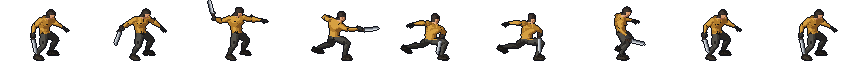
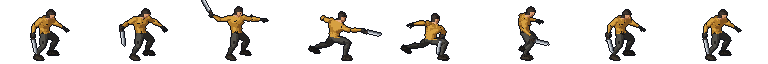
3타 내려치기 손맛: 버텼다가 확, 파고들기, 땅까지 검로, 큰 타격 별
- 3타 칸 다시 자름: 서기·빼기·머리 위(버팀) + 파고들기·내려침, 맞는 칸 = 땅까지 내려친 칸
- look.json windup: 준비 칸마다 시간 비율 (머리 위 0.18초 → 0.03초 만에 내려침)
- look.json trail_from: 검로를 여러 칸 전부터 (머리 위 → 앞 → 땅)
- Swing step: 맞기 직전 앞으로 파고듦 (3타 22px), 반격 돌진도 맞는 순간에 도착
- hit_feel burst: 무게에 따라 타격 별 크기·굵기·충격 고리, 강타 히트스톱 0.13초

diff --git a/src/weapon.py b/src/weapon.py
@@ -13,12 +13,14 @@ import pico2d
 
 import dodge
 
-Swing = namedtuple("Swing", "sheet duration contact damage reach depth arc push recover_from heavy")
+Swing = namedtuple("Swing", "sheet duration contact damage reach depth arc push recover_from heavy step",
+                   defaults=(0,))
 # sheet: animation sheet (character_look pose); duration and contact in seconds;
 # damage in hit points; reach and depth in px; arc in radians around the facing direction;
 # push: knockback speed in px/s; recover_from: progress where the swing's own recovery
 # starts, so a follow-up swing can cut in there instead of waiting for it; heavy: a big blow
-# (combo finisher) that lands one feel class harder (hit-stop, shake, number; see hit_feel).
+# (combo finisher) that lands one feel class harder (hit-stop, shake, number; see hit_feel);
+# step: px the attacker steps forward into the blow (the art's lunge is pinned in place).
 
 Weapon = namedtuple("Weapon", "name swings combo_window sneak_multiplier")
 # combo_window: seconds after a swing's recovery starts in which a click continues the combo.
@@ -29,7 +31,7 @@ MACHETE = Weapon(
         # 1st and 2nd: quick, light blows; 3rd: the big chop with a real wind-up.
         Swing("swing", 0.46, 0.14, 2, 42, 20, pi / 3, 110, 0.72, False),    # quick sweep
         Swing("swing2", 0.50, 0.16, 2, 46, 22, pi / 3, 110, 0.73, False),   # rising cut
-        Swing("swing3", 0.72, 0.30, 6, 50, 24, pi / 3, 320, 0.74, True),    # big chop down
+        Swing("swing3", 0.70, 0.32, 6, 50, 24, pi / 3, 340, 0.74, True, 22),  # big chop down
     ),
     combo_window=0.25,
     sneak_multiplier=3,
@@ -51,8 +53,10 @@ class MeleeAttack:
         self.combo_index = combo_index
         self.elapsed = 0.0
         self.sneak = False          # started before the target noticed: a sneak attack
-        self.lunge = (0.0, 0.0)     # px the attacker travels before the blow (a counter's lunge)
-        self.lunge_from = None      # where the lunge started, for the after-images
+        # px the attacker travels just before the blow: the swing's own step, plus a counter's
+        # lunge (start_lunge); lunge_from marks a counter, for its after-images.
+        self.lunge = (self.dx * swing.step, 0.0)
+        self.lunge_from = None
 
     def update(self, frame_time):
         before = self.elapsed
@@ -64,16 +68,18 @@ class MeleeAttack:
         return min(self.swing.contact, dodge.LUNGE_TIME)
 
     def start_lunge(self, attacker, distance):
-        self.lunge = distance
+        self.lunge = (self.lunge[0] + distance[0], self.lunge[1] + distance[1])
         self.lunge_from = (attacker.x, attacker.y)
 
     def lunge_step(self, frame_time):
-        """Movement for this frame of the lunge: an even share of it until lunge_time.
+        """Movement for this frame of the lunge: an even share of it over the lunge_time
+        that ends at contact, so the body arrives as the blow lands.
         Call before update(), which advances elapsed."""
         if self.lunge == (0.0, 0.0):
             return 0.0, 0.0
-        start = min(self.elapsed, self.lunge_time)
-        end = min(self.elapsed + frame_time, self.lunge_time)
+        begin = self.swing.contact - self.lunge_time
+        start = min(max(self.elapsed, begin), self.swing.contact)
+        end = min(max(self.elapsed + frame_time, begin), self.swing.contact)
         share = (end - start) / self.lunge_time
         return self.lunge[0] * share, self.lunge[1] * share
 
@@ -123,12 +129,16 @@ class MeleeAttack:
             self.draw_arc_trail(x, feet_y + 12, fade)
             return
         shown = look.frame_of(sheet, self.progress, self.contact)
-        before = lines[max(0, impact - 1)] or lines[impact]
         moved_on = shown > impact
-        # While the impact frame shows, the whole blow; once the sprite moves on, a cut's arc
-        # stays only as a fading after-image and a thrust's streak (tied to the blade) goes.
-        draw_stroke(before, lines[impact], fade * (0.45 if moved_on else 1), MAX_BLOW_TURN,
-                    streak=not moved_on, facing=attacker.direction)
+        # While the impact frame shows, the whole blow (from trail_from frames before it);
+        # once the sprite moves on, a cut's arc stays only as a fading after-image and a
+        # thrust's streak (tied to the blade) goes.
+        first = max(0, impact - look.trail_from(sheet))
+        for index in range(first, impact):
+            before = lines[index] or lines[impact]
+            last = index == impact - 1
+            draw_stroke(before, lines[index + 1] or lines[impact], fade * (0.45 if moved_on else 1),
+                        MAX_BLOW_TURN, streak=last and not moved_on, facing=attacker.direction)
         if moved_on and impact + 1 < len(lines) and lines[impact + 1]:
             draw_stroke(lines[impact], lines[impact + 1], fade, MAX_FOLLOW_TURN)
 
@@ -199,12 +209,17 @@ def draw_streak(at, fade):
         pico2d.draw_line(sx, sy, sx - ux * back, sy - uy * back, 255, 255, 255, round(alpha * fade))
 
 
-def draw_impact(x, y, time_left):
-    """The star burst where a blow lands."""
+def draw_impact(x, y, time_left, scale=1.0):
+    """The star burst where a blow lands; scale grows with the blow's weight (hit_feel)."""
     progress = 1 - time_left / IMPACT_TIME
-    inner = 0.18 + progress * 0.65
-    outer = inner + (1 - progress) * 0.52
+    inner = (0.18 + progress * 0.65) * scale
+    outer = inner + (1 - progress) * 0.52 * scale
     for dx, dy in ((-25, 8), (-15, 21), (4, 25), (22, 15), (26, -4), (12, -13)):
-        pico2d.draw_line(x + dx * inner, y + dy * inner, x + dx * outer, y + dy * outer, 255, 214, 127)
+        for width in range(max(1, round(scale))):          # heavier blows draw thicker rays
+            pico2d.draw_line(x + dx * inner + width, y + dy * inner, x + dx * outer + width,
+                             y + dy * outer, 255, 214, 127)
     if progress < 0.3:
-        pico2d.draw_circle(x, y, 4, 255, 237, 191, filled=True)
+        pico2d.draw_circle(x, y, round(4 * scale), 255, 237, 191, filled=True)
+    if scale > 1.2 and progress < 0.7:                      # a shock ring on heavy blows
+        pico2d.draw_circle(x, y, round(10 + 26 * progress * scale), 255, 230, 180,
+                           round(200 * (1 - progress / 0.7)))

diff --git a/src/character_look.py b/src/character_look.py
@@ -15,6 +15,9 @@ before the impact play until the hit and the impact frame shows exactly when it 
 (and stays during the hit-stop); the rest play after. Any attack of any unit uses this.
   "hold": share of the time after the hit that the impact frame stays (default 0), so a fast
   blow is still seen landing: {"swing": {"impact": 2, "hold": 0.35}}.
+  "windup": relative time of each frame before the impact (default even), so a big blow
+  can hold its raised frame and then snap: {"swing3": {"impact": 4, "windup": [1, 1, 3, 0.5]}}.
+  "trail_from": how many frames before the impact the swing trail starts (default 1).
 An optional blade.json (written by tools/sprites/paint_clothes.py) holds the weapon in every
 frame as [grip x, grip y, tip x, tip y] in cell pixels, so swing trails follow the blade.
 
@@ -70,7 +73,15 @@ class SheetLook:
         if impact is not None and contact:
             # Wind-up frames fill the time before the hit, the rest the time after it.
             if time < contact:
-                return min(impact - 1, int(time / contact * impact))
+                weights = self.meta.get(pose, {}).get("windup")
+                if not weights or len(weights) != impact:
+                    return min(impact - 1, int(time / contact * impact))
+                left = time / contact * sum(weights)
+                for index, weight in enumerate(weights):
+                    left -= weight
+                    if left < 0:
+                        return index
+                return impact - 1
             after = (time - contact) / max(1e-6, 1 - contact)
             hold = self.meta.get(pose, {}).get("hold", 0)
             if after < hold or impact + 1 >= count:
@@ -94,6 +105,9 @@ class SheetLook:
 
     def impact_of(self, pose):
         return self.meta.get(pose, {}).get("impact")
+
+    def trail_from(self, pose):
+        return self.meta.get(pose, {}).get("trail_from", 1)
 
     def draw(self, pose, time, x, feet_y, facing, contact=None, distance=None, alpha=1.0):
         fixed = None

diff --git a/src/hit_feel.py b/src/hit_feel.py
@@ -17,14 +17,15 @@ LIGHT, MEDIUM, HEAVY, CRUSHING = range(4)
 MEDIUM_SHARE = 0.5
 HEAVY_SHARE = 0.75
 
-Feel = namedtuple("Feel", "hitstop shake shake_time number_size number_color pop")
+Feel = namedtuple("Feel", "hitstop shake shake_time number_size number_color pop burst")
 # hitstop: seconds the scene freezes; shake: pixels and seconds of screen shake;
-# number: size and colour of the damage number; pop: how far it overshoots on appearing.
+# number: size and colour of the damage number; pop: how far it overshoots on appearing;
+# burst: size of the impact star (heavy blows also get a shock ring).
 FEELS = {
-    LIGHT: Feel(0.04, 0, 0.0, 22, (255, 186, 140), 0.25),
-    MEDIUM: Feel(0.075, 2, 0.15, 27, ui.DANGER, 0.4),
-    HEAVY: Feel(0.11, 4, 0.22, 32, (240, 84, 62), 0.55),
-    CRUSHING: Feel(0.16, 7, 0.3, 35, (240, 84, 62), 0.7),
+    LIGHT: Feel(0.04, 0, 0.0, 22, (255, 186, 140), 0.25, 0.9),
+    MEDIUM: Feel(0.075, 2, 0.15, 27, ui.DANGER, 0.4, 1.0),
+    HEAVY: Feel(0.13, 5, 0.25, 32, (240, 84, 62), 0.55, 1.6),
+    CRUSHING: Feel(0.16, 7, 0.3, 35, (240, 84, 62), 0.7, 1.9),
 }
 
 

diff --git a/src/main.py b/src/main.py
@@ -229,7 +229,7 @@ def handle_player_events():
             zombie.hurt(damage, player.swing.dx, swing.push)
             weight = hit_feel.weight(damage, zombie.max_hp, critical=sneak or counter,
                                     finishing=not zombie.alive, heavy=swing.heavy)
-            show_impact(position)
+            show_impact(position, weight)
             play_hit_feel(weight)
             game_world.add_object(DamageNumber(zombie.x, zombie.y, damage, weight), game_world.EFFECT)
             if not zombie.alive:
@@ -280,8 +280,9 @@ def perfect_dodge(attacker):
     state.message = "완벽 회피! 바로 공격하면 반격"
 
 
-def show_impact(position):
-    game_world.add_object(Impact(*position), game_world.EFFECT)
+def show_impact(position, hit_weight=None):
+    scale = 1.0 if hit_weight is None else hit_feel.feel(hit_weight).burst
+    game_world.add_object(Impact(*position, scale), game_world.EFFECT)
     assets.bat_impact_sound.play()
 
 

diff --git a/tools/blender/render_character.py b/tools/blender/render_character.py
@@ -27,8 +27,8 @@ PASSES = [
     (LIB1,
      ["idle=Idle_Loop", "sneak_idle=Idle_Loop+Crouch_Idle_Loop*0.3", "walk=Walk_Loop",
       "sneak=Walk_Loop+Crouch_Idle_Loop*0.3", "run=Jog_Fwd_Loop", "hurt=Hit_Chest", "down=Death01",
-      "pickup=Fixing_Kneeling@0-20", "swing3=Sword_Attack@0-16,Sword_Attack@26-36"],
-     ["idle=4", "sneak_idle=4", "walk=12", "sneak=12", "run=12", "hurt=3", "down=5", "pickup=4", "swing3=6,3"],
+      "pickup=Fixing_Kneeling@0-20", "swing3=Sword_Attack@0-7,Sword_Attack@10-13,Sword_Attack@26-36"],
+     ["idle=4", "sneak_idle=4", "walk=12", "sneak=12", "run=12", "hurt=3", "down=5", "pickup=4", "swing3=3,2,3"],
      ["--shift-for", "down=16"]),
     (LIB2,
      # Machete combo (user order 2026-11-12, "1st sweep, 2nd rising cut, 3rd chop down"):

diff --git a/src/effects.py b/src/effects.py
@@ -13,8 +13,9 @@ from weapon import IMPACT_TIME, draw_impact
 class Impact:
     """The star burst where a blow lands."""
 
-    def __init__(self, x, y):
+    def __init__(self, x, y, scale=1.0):
         self.x, self.y = x, y
+        self.scale = scale
         self.time_left = IMPACT_TIME
 
     def update(self):
@@ -23,7 +24,7 @@ class Impact:
             game_world.remove_object(self)
 
     def draw(self):
-        draw_impact(self.x - camera.x, self.y + 5, max(0.0, self.time_left))
+        draw_impact(self.x - camera.x, self.y + 5, max(0.0, self.time_left), self.scale)
 
 
 class DodgeFlash:

diff --git a/assets/characters/CHARACTER_WORKFLOW.md b/assets/characters/CHARACTER_WORKFLOW.md
@@ -131,7 +131,7 @@
 | sneak | `Walk_Loop` 위에 `Crouch_Idle_Loop`를 30% 얹음(`Walk_Loop+Crouch_Idle_Loop*0.3`) | 12 | 2026-11-11 30%로 조정(처음 40%), 6→12칸. 섞을 때는 COMBINE(회전을 곱해 더함)을 써야 함. 단순 평균(REPLACE)은 다리가 뒤로 뒤집힘 |
 | swing (1타) | `Sword_Regular_B@2-13` 4칸 + 복귀 `Sword_Regular_B_Rec` 3칸 (두 번째 팩 UAL2) | 7 | 빠른 가로 베기(준비 동작 잘라냄). 맞는 칸 인덱스 1, `hold` 0.35. 2026-11-12 "첫 번째 동작을 가로 베기로" → 다시 1타 |
 | swing2 (2타) | `Sword_Regular_A@4-` 4칸 + 복귀 `Sword_Regular_A_Rec@7-23` 3칸 | 7 | 올려 베기: 숙인 자세에서 칼이 앞으로 올라감. 맞는 칸 인덱스 1, `hold` 0.35. 2026-11-12 "2타 올려 베기"로 3타에서 옮기며 6칸 → 4칸 |
-| swing3 (3타) | `Sword_Attack@0-16` 6칸 + `Sword_Attack@26-36` 3칸 (첫 번째 팩 UAL1) | 9 | 내려치기: 칼을 머리 위로 들었다가 앞으로 파고들며 내려침. 맞는 칸 인덱스 3, `hold` 0.25. 첫 번째 팩 동작이라 첫 번째 렌더 묶음에 들어 있음. 후보로 `TreeChopping_Loop`(내려치나 허리 높이에서 멈춤), `Sword_Regular_Combo`, `Melee_Hook`도 그려 비교함 |
+| swing3 (3타) | `Sword_Attack@0-7` 3칸 + `@10-13` 2칸 + `@26-36` 3칸 (첫 번째 팩 UAL1) | 8 | 내려치기: 서기 → 뒤로 빼기 → 머리 위(버팀) → 파고들기 → 땅까지 내려침(맞는 칸 인덱스 4, `hold` 0.3, `windup` [0.7, 0.7, 2.2, 0.4], `trail_from` 2). 첫 번째 팩 동작이라 첫 번째 렌더 묶음에 들어 있음. 후보로 `TreeChopping_Loop`, `Sword_Regular_Combo`, `Melee_Hook`도 비교함 |
 | run | `Jog_Fwd_Loop` | 12 | 2026-11-12 뛰기. 원래 5.87m/s(한 바퀴 0.92초에 5.39m), 게임 4.8m/s에서 걸은 거리로 재생 |
 | sneak_idle | `Idle_Loop` 위에 `Crouch_Idle_Loop`를 40% 얹음 | 4 | Shift만 누르고 서 있을 때. 시트가 없는 캐릭터는 `sneak` 첫 칸으로 대신함(`character_look.FALLBACK`) |
 | hurt | `Hit_Chest` | 3 | |
@@ -293,3 +293,4 @@
 | 2026-11-12 | 사용자 지시 "1·2타가 너무 빨라 잘 안 보이고 흰 선도 잘 안 맞음" | 원인: 맞는 칸이 0.047초만 보임. `look.json`에 `hold`(맞는 칸을 붙잡는 비율) 추가, 1타를 `C@0-8`로 다시 그림(6칸으로 늘려 보니 C 중간에 칼을 다시 치켜드는 동작이 섞여 있었음). 점검: ① 맞는 칸 약 0.1초 ② 1타 찌르는 칸에서 칼이 앞을 향함 ③ 검로가 맞는 칸의 칼과 이어짐 ④ 다음 칸으로 넘어가면 직선 잔상 사라짐. 게임 화면 `previews/blade_trail_ingame.png` |
 | 2026-11-12 | 사용자 지시 "첫 번째 동작을 가로 베기가 가능할까요?" | swing=B(가로 베기), swing2=C@0-8(내지르기)로 바꿔 다시 그림. `look.json`·`blade.json`·무기 시간도 함께 바꿈. 점검: ① 1타 머리 위 호 ② 2타 아래에서 앞으로 올라오는 짧은 호 ③ 3타 올려 베기 호 ④ 좌우 반전 맞음. 게임 화면 `previews/blade_trail_ingame.png` |
 | 2026-11-12 | 사용자 지시 "뛰기 기능", "1타 가로 베기, 2타 올려 베기, 3타 내려치기" | `run=Jog_Fwd_Loop` 12칸 추가(`look.json` `stride_m` 5.39). 내려치기 후보 4개(`Sword_Attack`, `TreeChopping_Loop`, `Sword_Regular_Combo`, `Melee_Hook`)를 그려 비교하고 `Sword_Attack`을 3타로. 점검: ① 뛰기 다리가 걸은 거리와 맞음 ② 2타 검로가 아래에서 앞으로 올라감(전에는 머리 위로 그려짐 → "베기는 몸 앞을 지난다" 규칙) ③ 3타 검로가 머리 위에서 앞으로 내려옴 ④ 좌우 반전 맞음. 게임 화면 `previews/blade_trail_ingame.png` |
+| 2026-11-12 | 사용자 지시 "3번 동작이 쥬시하지 않다" | 3타를 `@0-7`(서기·빼기·머리 위) + `@10-13`(파고들기·내려침) + 복귀로 다시 자름. 맞는 칸을 칼이 땅까지 내려간 칸으로. 점검: ① 머리 위 칸이 가장 오래 보임 ② 파고드는 칸은 한순간 ③ 검로가 머리 위 → 앞 → 땅으로 이어짐 ④ 타격 별이 1·2타보다 큼. 게임 화면 `previews/chop_ingame.png` |

diff --git a/PRD.md b/PRD.md
@@ -19,6 +19,7 @@
 
 - **v3.0 (2026-11-12) — 전투를 실시간으로 되돌림.** 턴제(BG3식)의 재미는 매 턴 고를 선택지(주문·기술·환경·동료 조합)가 많은 데서 나오는데, 2D 학기 과제의 콘텐츠량으로는 "다가가 때리고 주사위를 기다리는" 반복이 되어 재미가 반감된다고 판단했다(사용자 결정). 1차 발표대로 **실시간 근접 전투**(공격 예고를 보고 회피·반격)로 간다. 선택의 재미는 전투 밖으로 옮긴다: 싸울지 피할지(은신·기습·우회), 생존자 관계. 혼자 싸우는 주인공으로 시작하고 동료는 지원 역할로 다시 정한다. 주무기는 **마체테**(빠른 베기 연타, 2026-11-12 결정). 무기는 데이터로 만들어 나중에 소방 도끼·쇠파이프 등을 더한다. 턴제 코드는 지우지 않고 보관한다. 아래 12절(턴제 전투)은 실시간 설계로 다시 쓸 때까지 참고용이다.
 - **v3.1 연타 리듬 (2026-11-12, 사용자 지시)** — 연타는 뒤로 갈수록 동작이 커진다. 1타 가로 베기·2타 내지르기는 빠르고 가벼운 타(처음 0.32·0.34초 → v3.2에서 0.4초, 피해 2), 3타 올려 베기는 숙였다가 크게 베어 올리는 마무리(0.66초, 0.26초에 닿음, 피해 6, 밀어내기 2배 이상). 마무리 타는 무기 데이터의 `heavy` 표시로 히트스톱·흔들림·숫자가 한 단계 커진다(모든 무기 공통 규칙, `hit_feel.weight`). 기습은 첫 타 기준 2×3=6.
+- **v3.10 3타 손맛 (2026-11-12, 사용자 지시 "3번 동작이 1, 2번 동작에 비해서 쥬시하지가 않아요")** — 원인: ① 준비 칸(서기·뒤로 빼기·머리 위)이 0.1초씩 똑같아 "멈췄다가 확" 하는 박자가 없음 ② 맞는 칸이 칼이 앞으로 수평인 칸이라 내려치는 순간이 아님 ③ 그림은 파고드는데 몸은 제자리 ④ 타격 별이 가벼운 타와 같은 크기. 고침(모두 공통 규칙): `look.json` `windup`(준비 칸마다 시간 비율 — 머리 위에서 0.18초 버티고 0.03초 만에 내려침), 맞는 칸을 땅까지 내려친 칸으로, `trail_from`(검로를 2칸 전부터 — 머리 위 → 앞 → 땅 초승달), 무기 데이터 `step`(맞기 직전 앞으로 22px 파고듦), `hit_feel`의 `burst`(무거운 타격일수록 별이 크고 굵고 충격 고리, 히트스톱 0.13초·흔들림 5px).
 - **v3.8 이동 속도와 뛰기 (2026-11-12, 사용자 지시)** — "걷기랑 은신 속도가 전투 박자감에 비해 느린 감, 뛰기 기능도 있으면 전투 흐름이 높아질 것." 걷기 1.7 → 2.0m/s, 은신 1.0 → 1.3m/s, **뛰기 4.8m/s**(Space를 누른 채 이동: 누르는 순간 대시, 계속 누르면 뛰기). 뛰기 그림은 조깅 동작(`Jog_Fwd_Loop`, 원래 5.87m/s)을 걸은 거리로 재생해 발이 미끄러지지 않는다.
 - **v3.9 연타 구성: 가로 베기 → 올려 베기 → 내려치기 (2026-11-12, 사용자 지시)** — "1타 가로 베기, 2타 올려 베기, 3타 내려치기 이렇게 안 되나." 1타 가로 베기(0.46초, 피해 2), 2타 올려 베기(0.5초, 피해 2), 3타 내려치기(0.72초, 칼을 머리 위로 들었다가 앞으로 파고들며 내려침, 피해 6, 마무리 타격감). 내지르기는 연타에서 빠졌다. 검로는 "베기는 몸 앞을 지나간다"는 규칙으로 도는 방향을 정한다(올려 베기가 뒤-아래에서 앞으로 약 185° 돌 때 머리 위로 그려지던 문제).
 - **v3.7 1타를 가로 베기로 (2026-11-12, 사용자 지시 "첫 번째 동작을 가로 베기가 가능할까요?")** — 1타 가로 베기(0.46초) → 2타 내지르기(0.5초) → 3타 올려 베기. v3.3에서 내지르기를 1타로 옮긴 이유("2타가 잘 안 보임")는 v3.5(맞는 칸 붙잡기, 찌르기까지만 자름)로 풀렸다.

diff --git a/PLAN.md b/PLAN.md
@@ -147,6 +147,8 @@
 
 - **2026-11-12 · 공기·총소리 요소 제외** — "어떤 게 좋다고 생각하세요?"에 A 중심·옆 시점 유지·어둠+손전등을 추천 → "공기 요소는 제외하죠, 총소리가 적을 부르는 요소도 제외하죠." 공기 잔량은 계속 빼고(2026-11-10 결정 유지), 총소리로 적을 부르는 규칙도 넣지 않는다.
 
+- **2026-11-12 · 3타 손맛** — "3번 동작이 1, 2번 동작에 비해서 쥬시하지가 않아요." 머리 위에서 버텼다가 확 내려치기, 앞으로 파고들기, 땅까지 이어지는 검로, 무게에 따라 커지는 타격 별. PRD v3.10.
+
 - **2026-11-12 · 이동 속도와 뛰기** — "다 하고 나서 이동 속도를 다듬어 보죠. 걷기랑 은신 속도가 다소 전투 박자감에 비해 느린 감이 있습니다. 뛰기 기능도 있으면 좀 더 전투 흐름이 높아질 것 같습니다." 걷기 2.0·은신 1.3·뛰기 4.8m/s, 뛰기는 Space를 누른 채 이동(새 키를 늘리지 않고 대시에서 이어지게). PRD v3.8.
 
 - **2026-11-12 · 연타 구성 변경** — 작업 중 "지금 동작이 뭐뭐 가능하죠?"(서기·걷기·은신·대시·뛰기·3연타·기습·완벽 회피 반격·맞기·쓰러지기·줍기로 답함), "1타 가로 베기, 2타 올려 베기, 3타 내려치기 이렇게 안 되나" → 무료 동작 팩에서 `Sword_Attack`(머리 위로 들었다 내려치기)을 찾아 3타로. PRD v3.9.

diff --git a/docs/DEVLOG.md b/docs/DEVLOG.md
@@ -102,3 +102,4 @@
 - **1타를 다시 가로 베기로:** 사용자 요청. 가로 베기 → 내지르기 → 올려 베기. 내지르기는 이미 잘 보이게 고친 뒤라 2타여도 괜찮다.
 - **이동 속도와 뛰기:** 전투 박자에 비해 느리다는 의견으로 걷기 2.0·은신 1.3m/s, 뛰기 4.8m/s를 넣었다. 뛰기는 Space를 누른 채 이동(누르는 순간 대시, 계속 누르면 뛰기). 동작 팩의 조깅·질주 속도를 재 보니 조깅 5.87, 질주 8.28m/s라 조깅을 골랐다.
 - **연타 구성 변경:** "가로 베기 → 올려 베기 → 내려치기"로. 내려치기 후보 4개를 그려 비교해 `Sword_Attack`을 골랐다. 올려 베기를 2타로 옮기자 칼이 뒤-아래에서 앞까지 약 185° 돌아 검로가 머리 위로 잘못 그려졌다 → 베기 검로는 몸 앞을 지나는 쪽으로 돌게 고쳤다(공통 규칙).
+- **3타 손맛:** "3번 동작이 쥬시하지 않다." 재 보니 준비 칸들이 모두 0.1초로 똑같아 "버텼다가 확"이 없었고, 맞는 칸이 칼이 수평인 칸이었다. 머리 위에서 0.18초 버티고 0.03초 만에 땅까지 내려치게 칸 시간 비율(`windup`)을 넣고, 맞기 직전 22px 파고들기(`step`), 2칸 전부터 이어지는 검로(`trail_from`), 무게에 따라 커지는 타격 별(`burst`)을 더했다. 모두 다른 무기·적에도 쓰는 공통 규칙.
